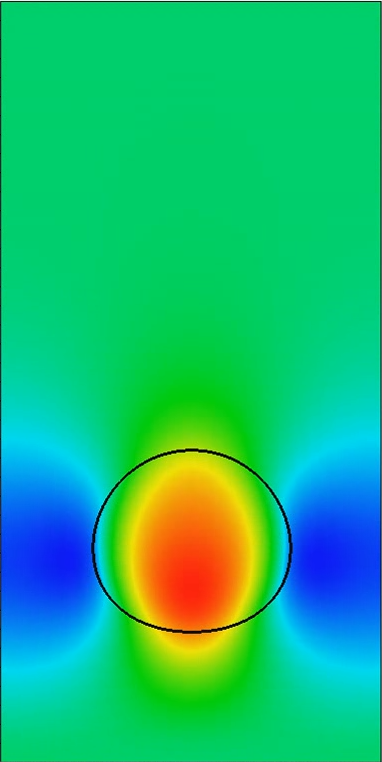
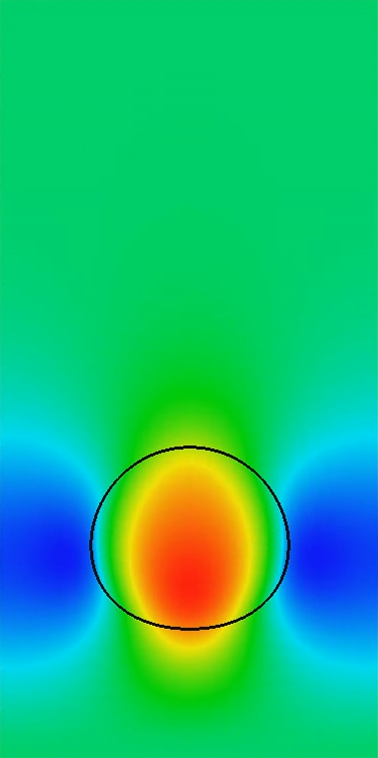
oida

diff --git a/doc/handbook/BoSSShandbook.tex b/doc/handbook/BoSSShandbook.tex
@@ -185,10 +185,10 @@ and for the bum a so-called level-set representation is used.
 
 \begin{figure}[!h]
 \begin{center}
-\includegraphics[width=0.2\textwidth]{figures/Bubble_t0}
-\includegraphics[width=0.2\textwidth]{figures/Bubble_t1}
-\includegraphics[width=0.2\textwidth]{figures/Bubble_t2}
-\includegraphics[width=0.2\textwidth]{figures/Bubble_t3}
+\includegraphics[height=0.4\textwidth]{figures/Bubble_t0}
+\includegraphics[height=0.4\textwidth]{figures/Bubble_t1}
+\includegraphics[height=0.4\textwidth]{figures/Bubble_t2}
+\includegraphics[height=0.4\textwidth]{figures/Bubble_t3}
 \end{center}
 \caption{
 The second important application in \BoSSS{} using dynamic interfaces:
